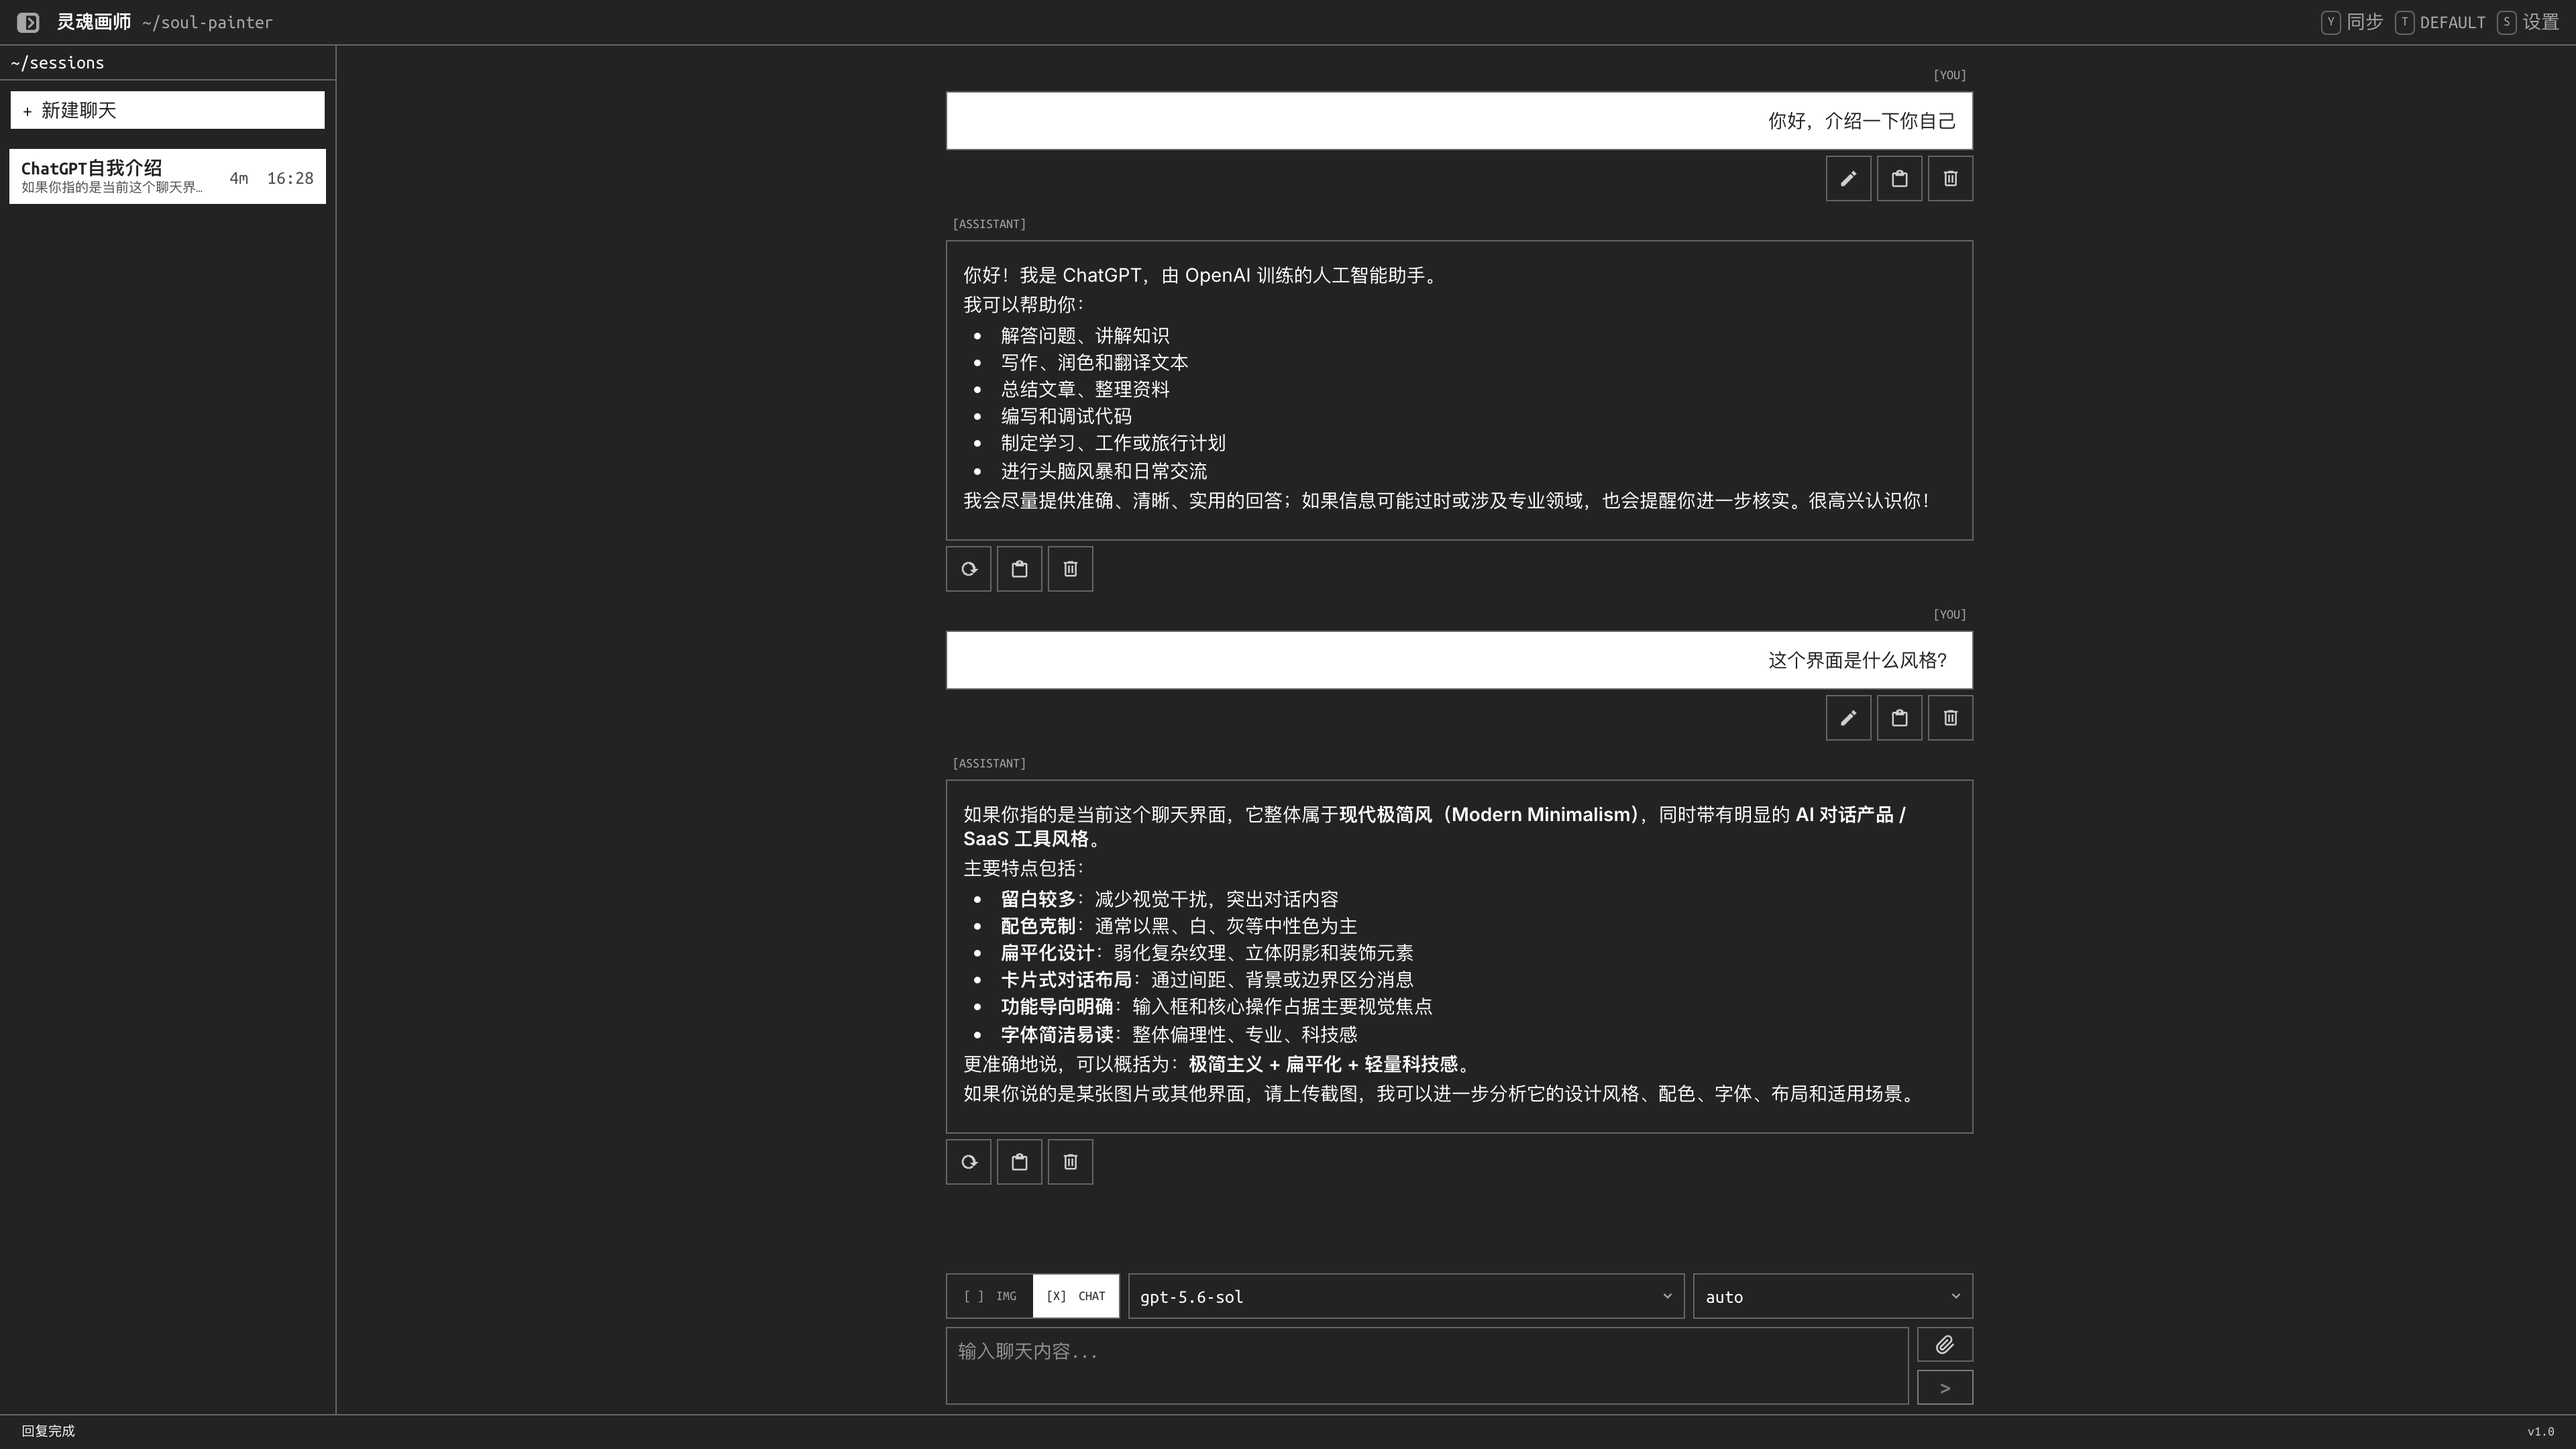
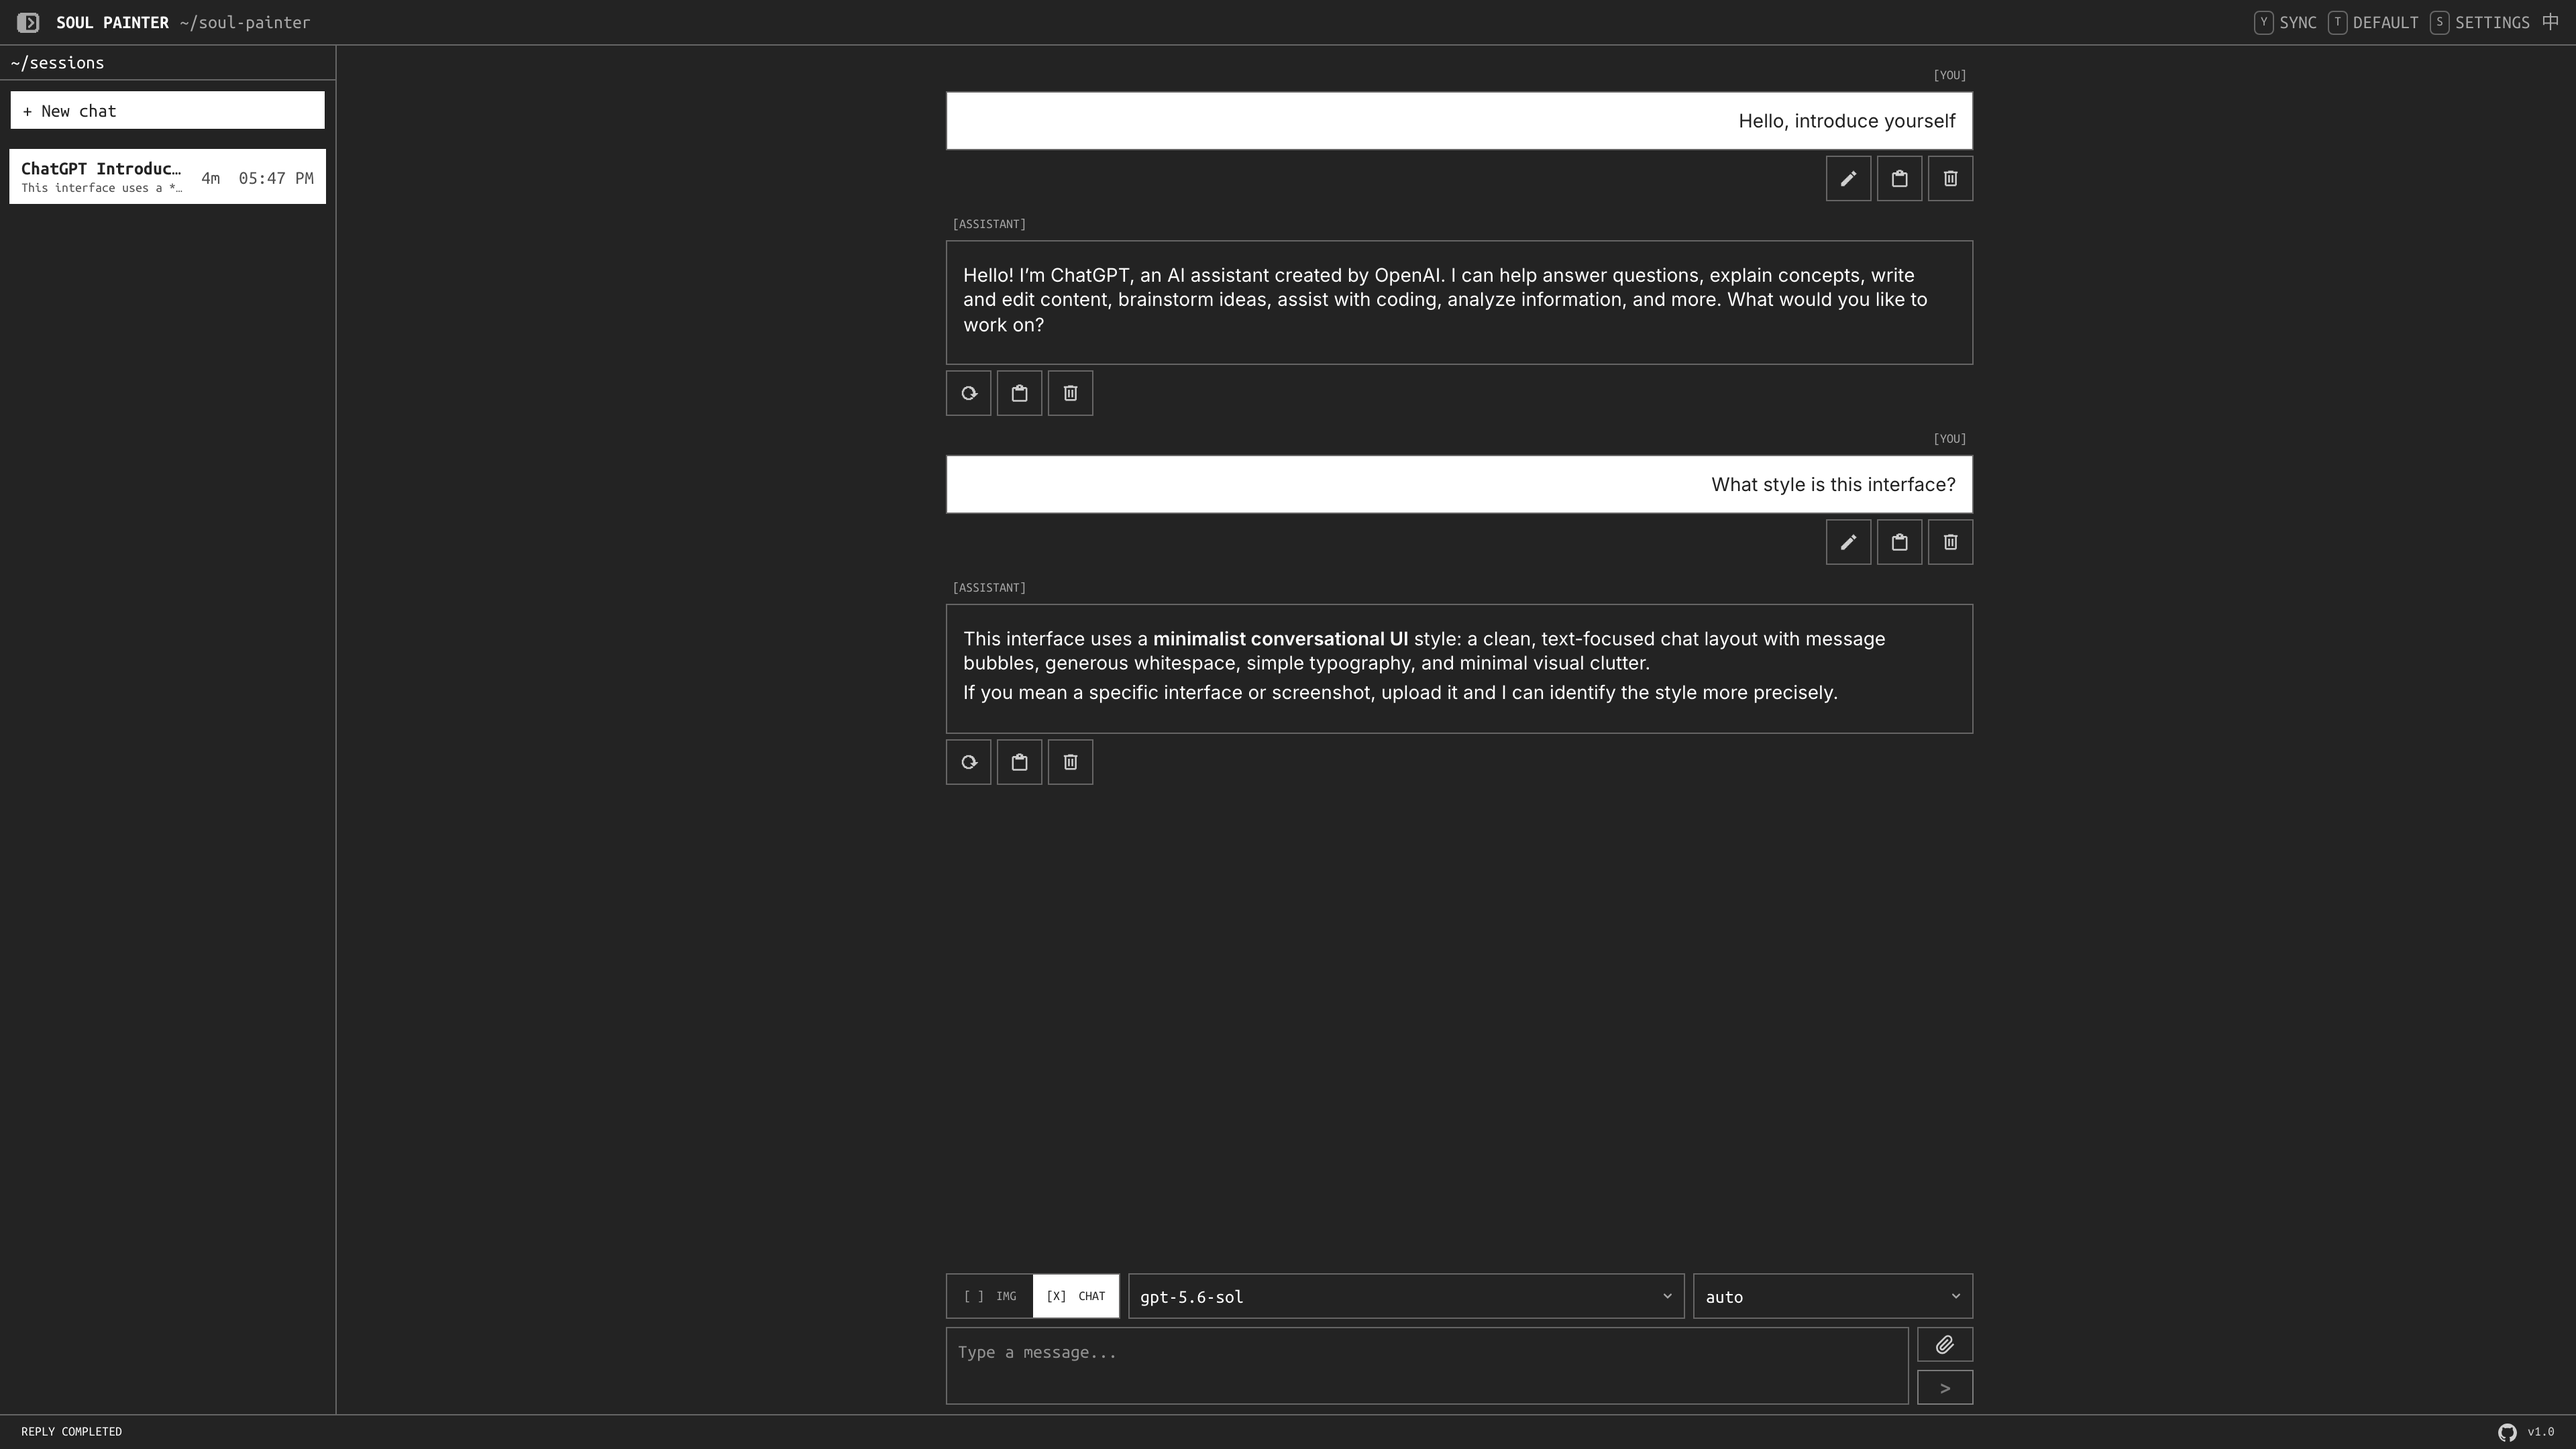
Rewrite the README in English with retaken EN screenshots
- Drop every remaining Chinese UI reference; add the bilingual note and
  the L hotkey row; credit edoardolunardi.dev for the design language
- Retake all screenshots in English and normalise table cells with
  fixed-width img tags so paired shots render at the same size

diff --git a/README.md b/README.md
@@ -6,13 +6,13 @@ A monochrome terminal-desktop AI image generation and chat tool — text-to-imag
 
 Desktop (4K):
 
-| Chat mode | Generate → 参考 (use as reference) |
+| Chat mode | Generate → reuse as reference |
 |:---:|:---:|
-| ![Chat with streamed replies and message actions](docs/screenshots/desktop-chat.png) | ![Generated image piped into ~/refs](docs/screenshots/desktop-generate.png) |
+| <img src="docs/screenshots/desktop-chat.png" width="640" alt="Chat with streamed replies and message actions"> | <img src="docs/screenshots/desktop-generate.png" width="640" alt="Generated image piped into ~/refs"> |
 
 | Session context menu | `~/config` settings window |
 |:---:|:---:|
-| ![Right-click a session card to rename, clear or delete](docs/screenshots/desktop-context-menu.png) | ![Draggable settings window](docs/screenshots/desktop-settings.png) |
+| <img src="docs/screenshots/desktop-context-menu.png" width="640" alt="Right-click a session card to rename, clear or delete"> | <img src="docs/screenshots/desktop-settings.png" width="640" alt="Draggable settings window"> |
 
 Swappable palettes — `matrix` on desktop:
 
@@ -22,11 +22,12 @@ iOS:
 
 | Session drawer | Chat + composer |
 |:---:|:---:|
-| ![Slide-out session drawer](docs/screenshots/mobile-drawer.png) | ![Mobile chat with two-row controls](docs/screenshots/mobile-chat.png) |
+| <img src="docs/screenshots/mobile-drawer.png" width="320" alt="Slide-out session drawer"> | <img src="docs/screenshots/mobile-chat.png" width="320" alt="Mobile chat with two-row controls"> |
 
 ## Features
 
 - **Terminal Desktop UI** — Full-viewport shell with hairline borders, draggable modal windows, and monospace typography (Inter + Ubuntu Mono)
+- **Bilingual UI** — English and Chinese interface; defaults to English, switchable from the header toggle
 - **Swappable Themes** — Seven terminal palettes (default, matrix, amber, solarized-dark, monokai, nord, dracula), cycled with `T` or the toolbar button
 - **Text-to-Image** — Describe what you want, generate images via API
 - **Image-to-Image** — Upload reference images and describe edits
@@ -36,7 +37,7 @@ iOS:
 - **Server Runs** — Prompts execute as durable server-side runs that survive reloads and restarts; progress streams over SSE and can be cancelled mid-flight
 - **Custom Sizes** — Pick a preset aspect ratio or type a custom `WxH` size
 - **Session Sidebar** — Resizable split pane (drag, arrow keys, double-click to reset); right-click or long-press a session for rename/clear/delete; collapses via the header button
-- **Message Actions** — Edit-and-resend, regenerate, copy, and delete on any chat message; generated images offer 放大/下载/参考 (lightbox, download, use as reference)
+- **Message Actions** — Edit-and-resend, regenerate, copy, and delete on any chat message; generated images offer lightbox, download, and reuse-as-reference
 - **Auto Compression** — Oversized images (>1.5MB or any edge >3840px) are automatically downscaled
 - **Chat History Sync** — Optional server-side sync across browsers via a username + sync secret; first login creates the account
 - **Model Gate** — Optional lock on model selection; triple-tap the footer version stamp to unlock
@@ -122,7 +123,7 @@ Chat settings can save separate OpenAI Compatible and Claude Compatible credenti
 
 1. **Drag & drop**, **paste**, or click the **attachment button** to add reference images
 2. Click a thumbnail to toggle selection — all selected images join the request
-3. Optionally click **编辑** on a selected thumbnail to open the mask editor — paint red overlay on areas to modify
+3. Optionally click **Edit** on a selected thumbnail to open the mask editor — paint red overlay on areas to modify
 4. Type instructions describing the desired edits
 5. Send
 
@@ -133,6 +134,7 @@ Chat settings can save separate OpenAI Compatible and Claude Compatible credenti
 | `Enter` / `Ctrl+Enter` | Send prompt |
 | `Shift+Enter` | New line |
 | `T` | Cycle theme |
+| `L` | Switch UI language (English / 中文) |
 | `Y` | Open sync login |
 | `S` / `F1` | Open settings |
 | `D` | Toggle debug panel |
@@ -183,6 +185,10 @@ npm run start    # Production server (port 3010)
 npm run lint     # ESLint
 npm run test     # Vitest unit tests
 ```
+
+## Credits
+
+Design language inspired by [edoardolunardi.dev](https://edoardolunardi.dev).
 
 ## License
 
